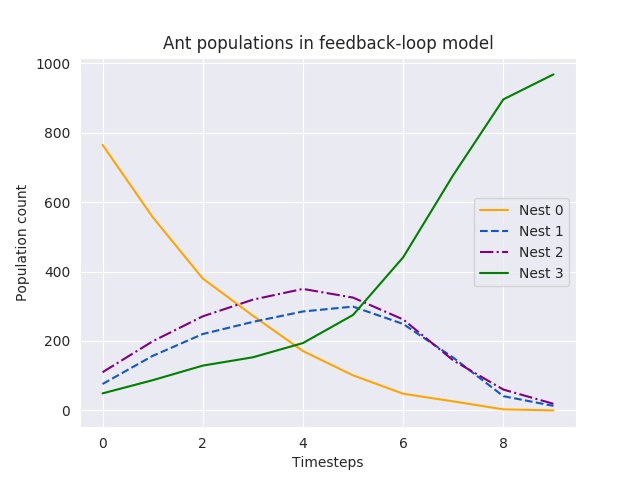
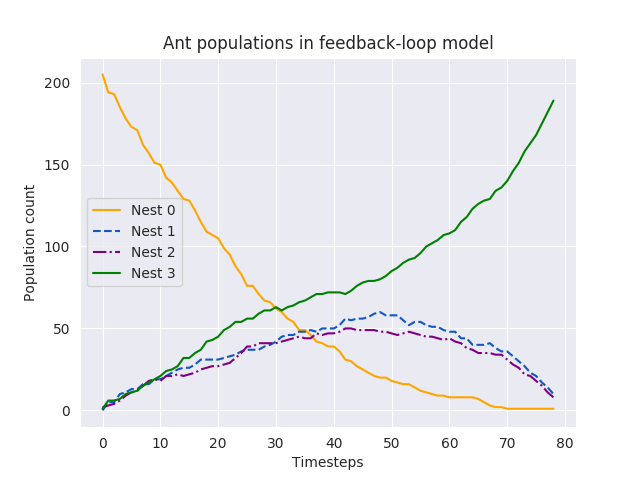
Adds non-compromise

diff --git a/saldyt_2018_agent_based/agent.py b/saldyt_2018_agent_based/agent.py
@@ -38,8 +38,9 @@ class Agent:
         return str(self)
 
     def encounter(self, nest, weights):
-        self.commitment = weights[nest]
-        self.current    = nest
+        if self.commitment < weights[nest]:
+            self.commitment = weights[nest]
+            self.current    = nest
 
 def transform(agents, agent, weights, phi, free):
     if random() < agent.commitment:
@@ -109,9 +110,11 @@ betas  = [0.02]
 phis   = [0.013]
 phis   = np.linspace(0.0, 0.1, 31)
 
-#simulate(208, [0.0, 0.015, 0.02, 0.03], [0.0, 0.013, 0.013, 0.013], True, iterations=5000)
+simulate(208, [0.0, 0.015, 0.02, 0.03], [0.0, 0.013, 0.013, 0.013], True, iterations=5000)
+1/0
 #simulate(1000, [0.0, 0.015, 0.015, 0.015], [0.0, 0.013, 0.013, 0.013], True, iterations=1000)
 #simulate(1000, [0.0, 0.3, 0.25, 0.9], [0.0, 0.1, 0.1, 0.05], True, iterations=1000)
+
 for N in Ns:
     for alpha in alphas:
         for beta in betas:
